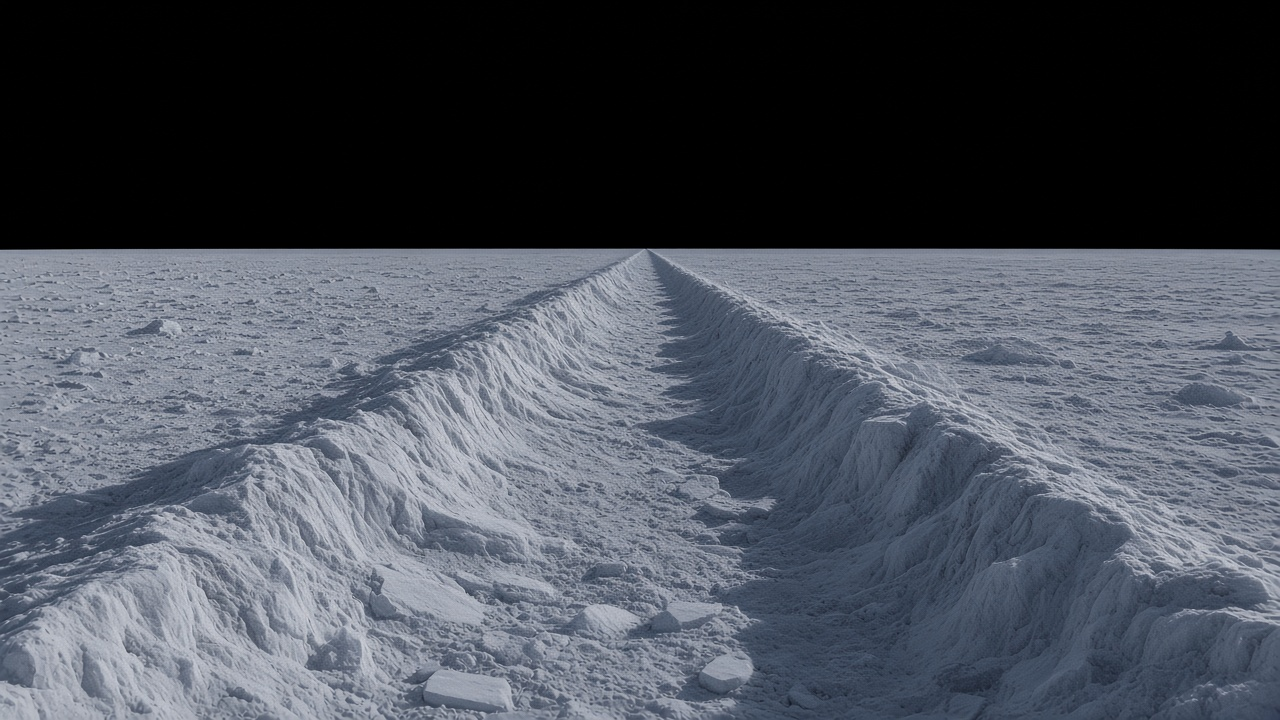
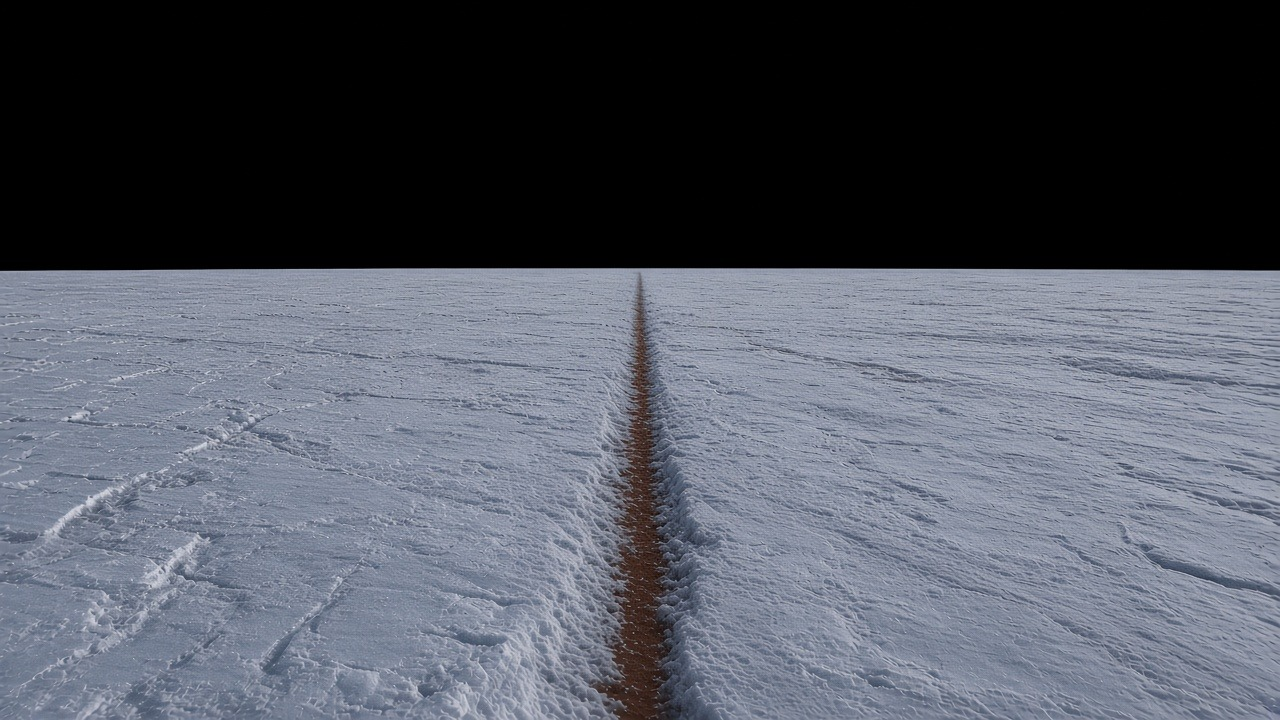
Ridge: matched center picture, soft rear side edges (test r6)

diff --git a/surface/src/main.js b/surface/src/main.js
@@ -413,7 +413,7 @@ const BUILD = 'Build Oct 31 r6';
 const SCENE_VER = {
   'open-ice': 'v4 solid seams',
   crevasse: 'v2 4-panel',
-  ridge: 'v7 haze brush',
+  ridge: 'v7 haze, matched front',
   chaos: 'v3 Imagine, soft seams',
   fissure: 'v2 Imagine back',
   cavern: 'v1 jellies'
@@ -697,10 +697,10 @@ registerLocation({
     // front on top, sides next, back underneath; near-hard side edges (0.008) so each panel reads as its own face with a crisp seam. Black painted sky is keyed out so the real stars show.
     const key = { keySky: true, keyLo: 0.012, keyHi: 0.022 };
     addVista(group, this, { vistas: [
-      { ...key, url: './assets/vistas/ridge-front.jpg', yawDeg: 0,   arcDeg: 116, horizon: 0.346, keyBand: [0.66, 0.69], order: 12, sideFade: [0.2, 0.2], bottomFade: 0.02, bright: 1.0 },
-      { ...key, url: './assets/vistas/ridge-right.jpg', yawDeg: 75,  arcDeg: 116, horizon: 0.378, keyBand: [0.63, 0.66], order: 11, sideFade: 0.008, bottomFade: 0.02, bright: 0.88, cropL: 0.15 },
-      { ...key, url: './assets/vistas/ridge-left.jpg',  yawDeg: -75, arcDeg: 116, horizon: 0.338, keyBand: [0.65, 0.68], order: 11, sideFade: 0.008, bottomFade: 0.02, bright: 1.0, cropR: 0.15 },
-      { ...key, url: './assets/vistas/ridge-back.jpg',  yawDeg: 180, arcDeg: 140, horizon: 0.332, keyBand: [0.66, 0.69], order: 10, sideFade: 0.008, bottomFade: 0.02, bright: 0.62, cropL: 0.160, cropR: 0.160 }
+      { ...key, url: './assets/vistas/ridge-front.jpg?v=7', yawDeg: 0,   arcDeg: 116, horizon: 0.374, keyBand: [0.63, 0.66], order: 12, sideFade: [0.2, 0.2], bottomFade: 0.02, bright: 0.88 },
+      { ...key, url: './assets/vistas/ridge-right.jpg', yawDeg: 75,  arcDeg: 116, horizon: 0.378, keyBand: [0.63, 0.66], order: 11, sideFade: [0.008, 0.08], bottomFade: 0.02, bright: 0.88, cropL: 0.15 },
+      { ...key, url: './assets/vistas/ridge-left.jpg',  yawDeg: -75, arcDeg: 116, horizon: 0.338, keyBand: [0.65, 0.68], order: 11, sideFade: [0.08, 0.008], bottomFade: 0.02, bright: 1.0, cropR: 0.15 },
+      { ...key, url: './assets/vistas/ridge-back.jpg',  yawDeg: 180, arcDeg: 140, horizon: 0.332, keyBand: [0.66, 0.69], order: 10, sideFade: 0.008, bottomFade: 0.02, bright: 0.62, cropL: 0.08, cropR: 0.08 }
     ] });
     addHaze(group, this, { yawDeg: -46, arcDeg: 56, alpha: 0.7 });
     addHaze(group, this, { yawDeg: 46, arcDeg: 56, alpha: 0.34 });
